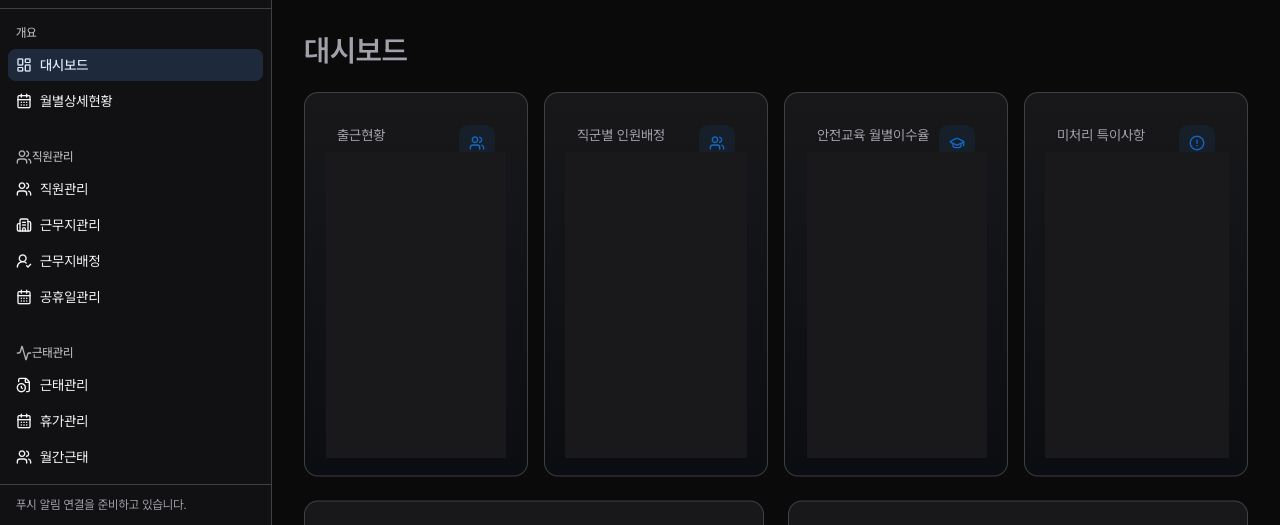
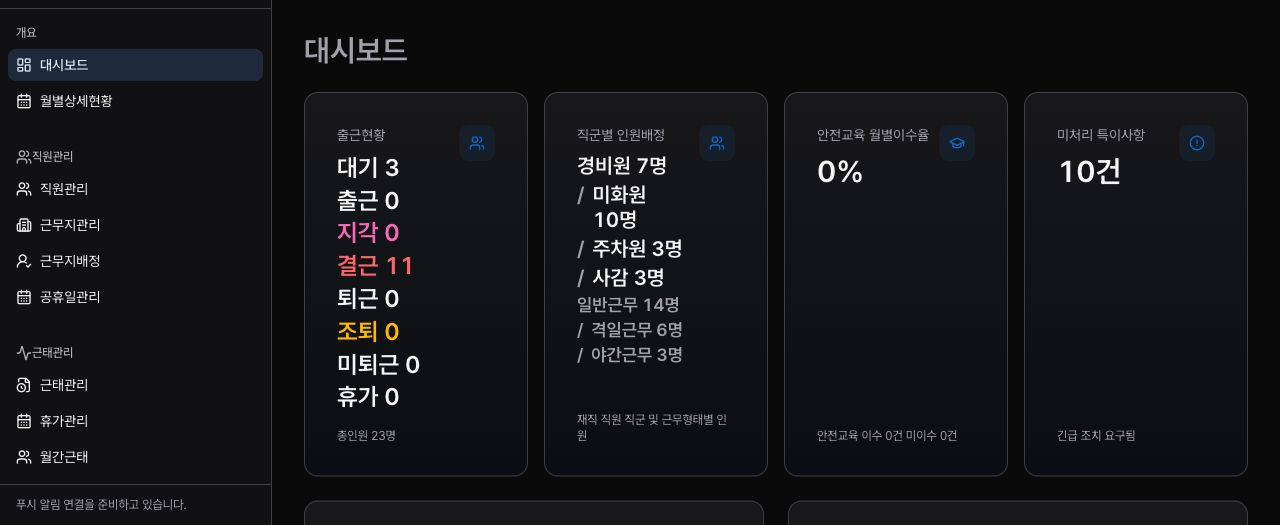
docs: show test data in dashboard screenshot

diff --git a/docs/documents/screen-guide.md b/docs/documents/screen-guide.md
@@ -22,7 +22,7 @@
 
 ![관리자 대시보드 상단의 운영 요약과 왼쪽 메뉴](./images/manager-dashboard-guide.jpg)
 
-관리자 로그인 후 처음 표시되는 대시보드입니다. 출퇴근, 재직 인원, 안전교육, 특이사항과 휴가·점검 현황을 한눈에 확인할 수 있습니다. 캡처는 운영 요약과 왼쪽 메뉴 일부를 보여 줍니다. 공개 문서에는 운영 수치를 가렸습니다.
+관리자 로그인 후 처음 표시되는 대시보드입니다. 출퇴근, 재직 인원, 안전교육, 특이사항과 휴가·점검 현황을 한눈에 확인할 수 있습니다. 캡처는 운영 요약과 왼쪽 메뉴 일부를 보여 줍니다. 화면에 표시된 수치는 테스트 데이터입니다.
 
 ### 조회 기준과 표시 내용
 
